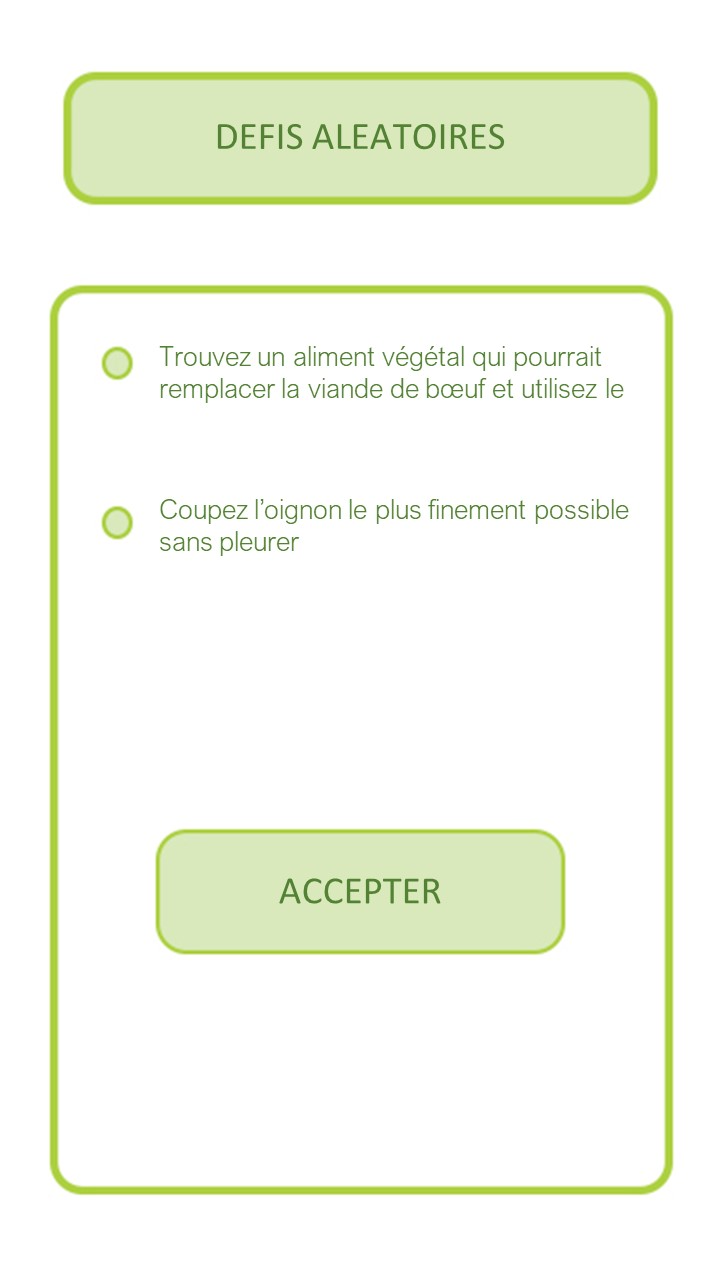
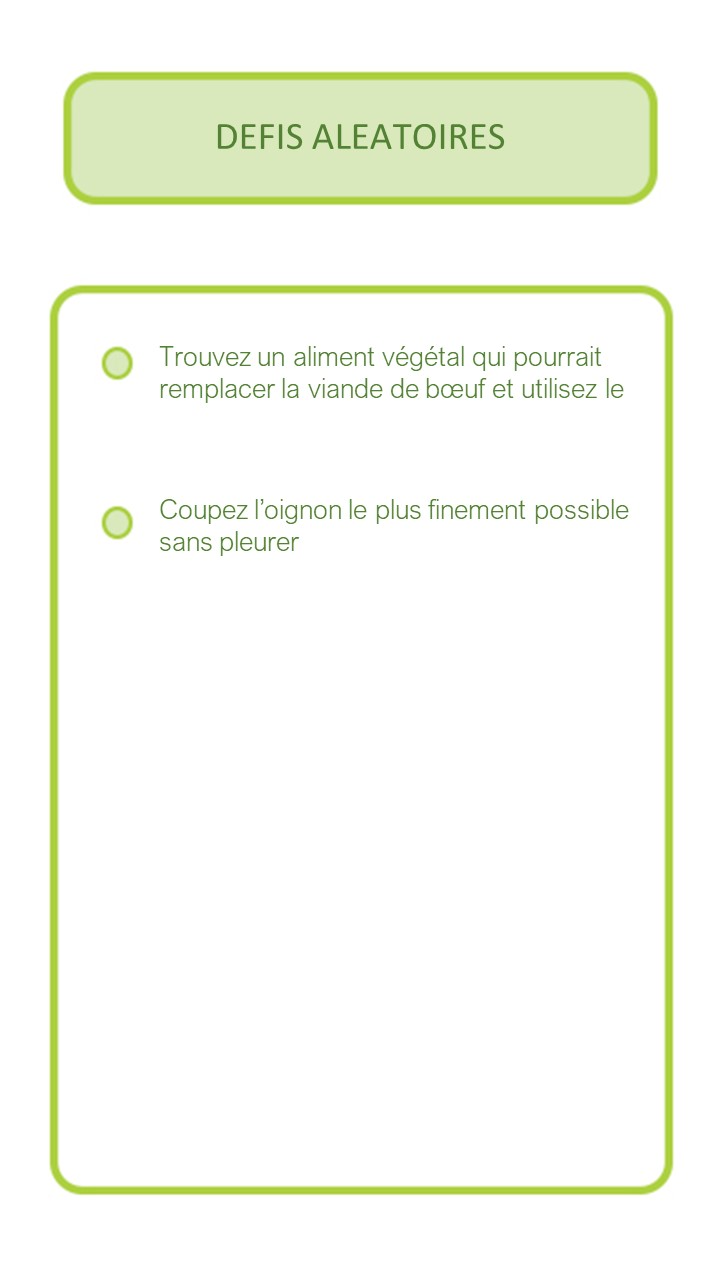
Added more animations.

Changed region(s): [[0.2136, 0.6245, 0.7933, 0.7494]]

diff --git a/src/Menus.py b/src/Menus.py
@@ -535,7 +535,7 @@ def recipe0(screen: pygame.Surface):
     Ui.text(screen, "Co2", screenWidth - 100, 172, round(25 * co2Scale), (0, 0, 0))
 
     # Draw the challenge button.
-    img = pygame.image.load("Resources/Recipe Pages/ChallengeButton.png")
+    img = pygame.image.load("Resources/Buttons/Challenge.png")
     img = pygame.transform.scale(img, (int(screenScale * img.get_width() * 0.87), int(screenScale * img.get_height() * 0.87)))
     if Ui.buttonBakedImage(screen, img, screenWidth//2, screenHeight - img.get_height()//2, mouseClicked):
         return Types.CHALLENGE_0
@@ -575,7 +575,7 @@ def recipe1(screen: pygame.Surface):
     Ui.text(screen, "Co2", screenWidth - 100, 177, round(25 * co2Scale), (0, 0, 0))
 
     # Draw the challenge button.
-    img = pygame.image.load("Resources/Recipe Pages/ChallengeButton.png")
+    img = pygame.image.load("Resources/Buttons/Challenge.png")
     img = pygame.transform.scale(img, (int(screenScale * img.get_width() * 0.87), int(screenScale * img.get_height() * 0.87)))
     if Ui.buttonBakedImage(screen, img, screenWidth//2, screenHeight - img.get_height()//2, mouseClicked):
         return Types.CHALLENGE_1
@@ -615,7 +615,7 @@ def recipe2(screen: pygame.Surface):
     Ui.text(screen, "Co2", screenWidth - 100, 177, round(25 * co2Scale), (0, 0, 0))
 
     # Draw the challenge button.
-    img = pygame.image.load("Resources/Recipe Pages/ChallengeButton.png")
+    img = pygame.image.load("Resources/Buttons/Challenge.png")
     img = pygame.transform.scale(img, (int(screenScale * img.get_width() * 0.87), int(screenScale * img.get_height() * 0.87)))
     if Ui.buttonBakedImage(screen, img, screenWidth//2, screenHeight - img.get_height()//2, mouseClicked):
         return Types.CHALLENGE_2
@@ -641,8 +641,14 @@ def challenge0(screen: pygame.Surface):
     img = pygame.transform.scale(img, (int(screenScale * img.get_width() * 0.95), int(screenScale * img.get_height() * 0.95)))
     Ui.image(screen, img, screenWidth//2, screenHeight//2 + 5)
 
+    # Show the accept button.
+    buttonScale = math.sin(time.time() * 5) / 10 + 0.9
+    img = pygame.image.load("Resources/Buttons/Accept.png")
+    img = pygame.transform.scale(img, (int(screenScale * img.get_width() * 0.95 * buttonScale), int(screenScale * img.get_height() * 0.95 * buttonScale)))
+    Ui.buttonBakedImage(screen, img, screenWidth//2, screenHeight - 285, mouseClicked)
+
     # Show the pass button.
-    img = pygame.image.load("Resources/Challenges/PassButton.png")
+    img = pygame.image.load("Resources/Buttons/Pass.png")
     img = pygame.transform.scale(img, (int(screenScale * img.get_width() * 0.95), int(screenScale * img.get_height() * 0.95)))
     if Ui.buttonBakedImage(screen, img, screenWidth//2, screenHeight - 130, mouseClicked):
         return Types.RECIPE_0
@@ -668,11 +674,17 @@ def challenge1(screen: pygame.Surface):
     img = pygame.transform.scale(img, (int(screenScale * img.get_width() * 0.95), int(screenScale * img.get_height() * 0.95)))
     Ui.image(screen, img, screenWidth//2, screenHeight//2 + 5)
 
+    # Show the accept button.
+    buttonScale = math.sin(time.time() * 5) / 10 + 0.9
+    img = pygame.image.load("Resources/Buttons/Accept.png")
+    img = pygame.transform.scale(img, (int(screenScale * img.get_width() * 0.95 * buttonScale), int(screenScale * img.get_height() * 0.95 * buttonScale)))
+    Ui.buttonBakedImage(screen, img, screenWidth//2, screenHeight - 285, mouseClicked)
+
     # Show the pass button.
-    img = pygame.image.load("Resources/Challenges/PassButton.png")
+    img = pygame.image.load("Resources/Buttons/Pass.png")
     img = pygame.transform.scale(img, (int(screenScale * img.get_width() * 0.95), int(screenScale * img.get_height() * 0.95)))
     if Ui.buttonBakedImage(screen, img, screenWidth//2, screenHeight - 130, mouseClicked):
-        return Types.RECIPE_1
+        return Types.RECIPE_0
 
     return Types.CHALLENGE_1
 
@@ -695,11 +707,17 @@ def challenge2(screen: pygame.Surface):
     img = pygame.transform.scale(img, (int(screenScale * img.get_width() * 0.95), int(screenScale * img.get_height() * 0.95)))
     Ui.image(screen, img, screenWidth//2, screenHeight//2 + 5)
 
+    # Show the accept button.
+    buttonScale = math.sin(time.time() * 5) / 10 + 0.9
+    img = pygame.image.load("Resources/Buttons/Accept.png")
+    img = pygame.transform.scale(img, (int(screenScale * img.get_width() * 0.95 * buttonScale), int(screenScale * img.get_height() * 0.95 * buttonScale)))
+    Ui.buttonBakedImage(screen, img, screenWidth//2, screenHeight - 285, mouseClicked)
+
     # Show the pass button.
-    img = pygame.image.load("Resources/Challenges/PassButton.png")
+    img = pygame.image.load("Resources/Buttons/Pass.png")
     img = pygame.transform.scale(img, (int(screenScale * img.get_width() * 0.95), int(screenScale * img.get_height() * 0.95)))
     if Ui.buttonBakedImage(screen, img, screenWidth//2, screenHeight - 130, mouseClicked):
-        return Types.RECIPE_2
+        return Types.RECIPE_0
 
     return Types.CHALLENGE_2
 
